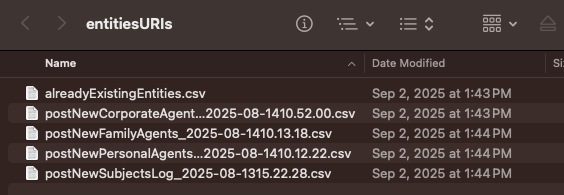
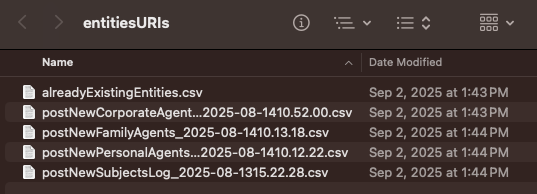
Additional details about errors

diff --git a/docs/workflow/2-fill-out-templates.md b/docs/workflow/2-fill-out-templates.md
@@ -32,6 +32,9 @@ For some paired fields, which only make sense together, like `authority_id` and 
 - If given the option by your spreadsheet editor, always encode your CSV as UTF-8.
 - If possible, format all of your cells as `Plain Text` or `Text` and quote all text before saving/exporting as a CSV. This will prevent automatic formatting in most spreadsheet editors.
 
+!!! Tip
+    We love [LibreOffice Calc](https://www.libreoffice.org/discover/calc/) for being great with encoding and text formatting, although we will admit that [Google Sheets](https://workspace.google.com/products/sheets/) has a far better spell check!
+
 ### :fontawesome-solid-spell-check: Diacritics
 Do not simply enter diacritics and other special characters into your spreadsheets, as these cannot be properly read by ArchivesSpace for some horrible reason. Instead, use HTML character codes, which can be found online and have the pattern $#\[number\].
 
@@ -98,7 +101,7 @@ Values like the following, containing typos or different capitalization, will no
 
 ### :material-checkbox-outline: Boolean
 
-The only accepted values in these fields are `TRUE` or `FALSE`.
+The only accepted values in these fields are `TRUE` or `FALSE`. Do not write in lowercase or title case.
 
 ### :material-link: Ref
 
@@ -123,7 +126,9 @@ Repeatable ref fields are separated by a single pipe `|`. Be sure there are no s
 
 ### :material-format-list-group-plus: Subfield type
 
-This data type is specific to the Big Blue Jay workflow templates and helps us represent fields with multiple subfields. Each subfield is linked to its value by "==". For instance, the `linked_agents` field has three subfields: `role`, `relator`, and `ref`. This means a corporate entity with the role of creator and the relator would be formatted as followed:
+This data type is specific to the Big Blue Jay workflow templates and helps us represent fields with multiple subfields. Each subfield is linked to its value by `==` and each subfield and its value is separated from the other subfields with `;;`.
+
+For instance, the `linked_agents` field has three subfields: `role`, `relator`, and `ref`. This means a corporate entity with the role value of `creator`, a relator value of `pht`, and an ref value of `/agents/corporate_entities/388` would be formatted as followed:
 
 `role==creator;;relator==pht;;ref==/agents/corporate_entities/388`
 
@@ -131,4 +136,12 @@ If the field needs to be repeated, each field is separated by double pipes `||`.
 
 `role==creator;;relator==pht;;ref==/agents/corporate_entities/388||role==creator;;relator==edt;;ref==/agents/corporate_entities/698`
 
-The subfields can be in any order in the spreadsheet. Subfields that are not required do not need to be included in spreadsheet.
+The subfields can be in any order within a single field area. These entries are equally as valid and do not have be consistent across a single column.
+
+- `relator==pht;;ref==/agents/corporate_entities/388;;role==creator`
+- `role==creator;;relator==pht;;ref==/agents/corporate_entities/388`
+
+Optional subfields that are not used (i.e. not filled out) should not be included in your entry. For instance, if you do not have a relator value (which is optional) for a specific archival object, do not include that subfield in that particular linked agent cell. Please note, however, that 
+required subfields must be present with a valid value.
+
+- `role==subject;;ref==/agents/corporate_entities/388`

diff --git a/docs/python-scripts/running-the-scripts.md b/docs/python-scripts/running-the-scripts.md
@@ -56,7 +56,6 @@ python postPeopleAgents.py -f collection-10-people.csv -p True
 To edit production server, enter secret filename:
 Editing Stage
 ```
-
 ## Recommendations for using POST scripts
 
 1. First test your script by creating the JSON files and reviewing them manually for any obvious errors. While you don't have to look at every single file, select a representative sample of 5 or more to review. I would recommend, however, running all of your expected data in the script to see if any errors are triggered.
@@ -65,9 +64,9 @@ Editing Stage
 
 3. Once you feel confident about the results of your script/data in the sandbox, talk with whoever is response for the technical maintenance of your ArchivesSpace instances and figure out a date when you can run the script against production. Our technical folks always back up the most recent save of our Production instance directly before we run POST scripts.
 
-4. Run your script in Production, preferably after regular working hours to improve running times and prevent any interruptions if any errors occur. After the script completes, Review both the log for errors and review a representative sample on the sandbox interface to ensure the update worked as expected. To avoid problems over the weekend/breaks, I would NOT recommend running any POST script against Production on Friday evenings or right before holidays.
+4. Run your script in Production, preferably after regular working hours to improve running times and prevent service interruptions if any errors occur. After the script completes, review both the log for errors and review a representative sample on the Production interface to ensure the update worked as expected. To avoid problems over the weekend/breaks, we do NOT recommend running any POST script against Production on Friday evenings or right before holidays.
 
-## Errors
+## Common errors
 
 ### JSONDecodeError
 
@@ -84,4 +83,8 @@ Meaning of common error codes:
 - `500: Internal Server Error` -- Typically, this is not your fault! Talk to your tech folks. Mostly likely your server is out of memory.
 - `503: Service Unavailable` --  Typically, this is not your fault! Talk to your tech folks.
 
-### 
+### KeyError or IndexError
+
+- `KeyError` will most likely occur in these scripts if when the script asks for a value from a specific *required* column and that column name does not exist in your spreadsheet. For instance, if you have a typo like `primarry_name` in your corporate agent spreadsheet, this will return a key error when the script runs line `primary_name = row['primary_name']`.
+
+- `IndexError` will most likely occur in your script when you do not properly format your subfield type entries with `==`, `;;`, or `||`. For instance, `role=creator;;relator==pht;;ref==/agents/corporate_entities/388` will not be able to separate the field `role` from its value `creator` because there is only a single `=` instead of `==`, returning an error.

diff --git a/docs/workflow/1-set-up-workflow.md b/docs/workflow/1-set-up-workflow.md
@@ -12,7 +12,7 @@ To use this workflow, there are a few details to configure on your local compute
 
 To fully run this workflow, you must be able to run the Python scripts contained [archivesspace-collection-ingest](https://github.com/mjanowiecki/archivesspace-collection-ingest) from your local computer. The easiest way to do this is by cloning [archivesspace-collection-ingest](https://github.com/mjanowiecki/archivesspace-collection-ingest). Be sure to install all of the required packages listed in `requirements.txt` in the repository.
 
-For more instructions on cloning, see [:simple-github: GitHub Docs: Cloning a repository](https://docs.github.com/en/repositories/creating-and-managing-repositories/cloning-a-repository).
+For more instructions on cloning, see [:simple-github: GitHub Docs: Cloning a repository](https://docs.github.com/en/repositories/creating-and-managing-repositories/cloning-a-repository). If you'd like to contribute any code back to this project, feel free to [Fork](https://docs.github.com/en/pull-requests/collaborating-with-pull-requests/working-with-forks/fork-a-repo#forking-a-repository) instead!
 
 ## 2. Export `enumerations.csv`
 

diff --git a/docs/index.md b/docs/index.md
@@ -52,6 +52,10 @@ This project uses CSV spreadsheets and Python scripts to upload entities (like S
 
 Throughout this documentation, the Blue Jay Example Collection is used to help explain our workflow in greater detail. This collection is entirely fictitious and does not represent best archival practices. Instead, the examples were formulated for their ability to clarify data entry and workflows, rather adherence to best practices in DACS or other descriptive practices.
 
+## Contact us
+
+Have questions or encounter an error? Feel free to get in contact with one of us with the emails provided in our Johns Hopkins profile pages (linked above). We will try to get back with you as quickly as possible!
+
 ## Copyright
 
 This documentation is licensed under a [Creative Commons Attribution-NonCommercial 4.0 International License](https://creativecommons.org/licenses/by-nc/4.0/).

diff --git a/docs/workflow/9-update-digital-objects.md b/docs/workflow/9-update-digital-objects.md
@@ -4,6 +4,9 @@ hide:
   - toc
 ---
 
+# Coming soon!
+- Linking digital objects to archival objects expected by October 2025.
+
 # Update digital object template with URIs
 
 While there are numerous methods you could use to replace entity names with URIs in the `digital-object-template.csv`, we have a script available that does this automatically using spreadsheets you already have. To do this method, see the steps below.
